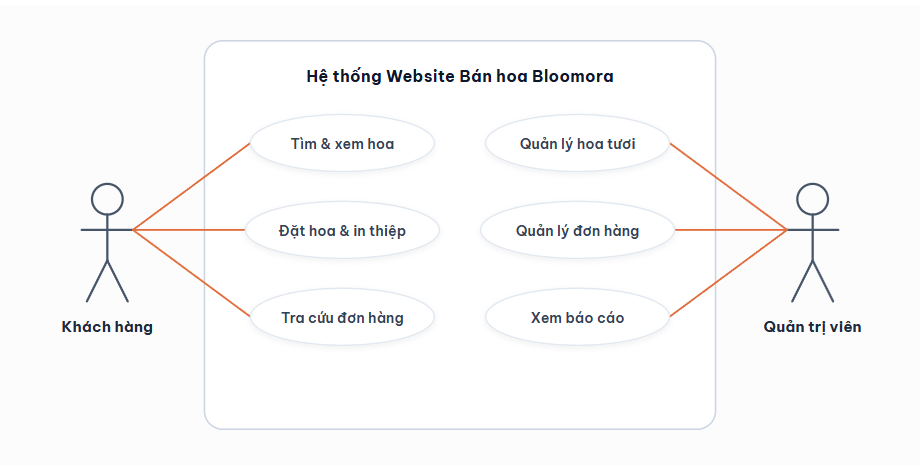
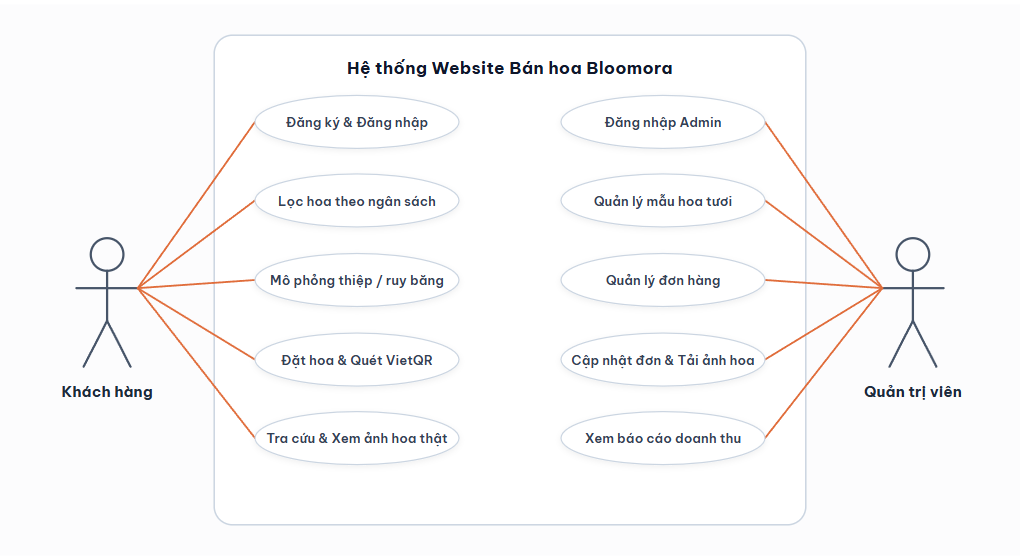
Cap nhat so do Use Case khop 100% 12 User Stories muc 2.4

diff --git a/docs/view_diagram.html b/docs/view_diagram.html
@@ -31,10 +31,10 @@
     <div class="flex justify-center">
       <div class="bg-white p-1 rounded-xl shadow-sm border border-slate-200 inline-flex">
         <button id="tab1-btn" onclick="switchTab(1)" class="px-5 py-2.5 rounded-lg text-sm font-semibold transition-all bg-rose-600 text-white shadow-sm">
-          Phiên bản 1: Chuẩn Bloomora (6 Chức Năng Cân Đối)
+          Phiên bản 1: Chuẩn 100% User Stories 2.4 (Khuyên Dùng)
         </button>
         <button id="tab2-btn" onclick="switchTab(2)" class="px-5 py-2.5 rounded-lg text-sm font-semibold transition-all text-slate-600 hover:text-slate-900">
-          Phiên bản 2: Giống 100% Slide Mẫu (5 Chức Năng)
+          Phiên bản 2: Rút gọn 5 Chức Năng (Theo Slide Mẫu)
         </button>
       </div>
     </div>
@@ -122,8 +122,8 @@
         tab1Btn.className = "px-5 py-2.5 rounded-lg text-sm font-semibold transition-all bg-rose-600 text-white shadow-sm";
         tab2Btn.className = "px-5 py-2.5 rounded-lg text-sm font-semibold transition-all text-slate-600 hover:text-slate-900";
         img.src = 'usecase_bloomora.png';
-        title.textContent = 'Sơ đồ Use Case Bloomora (Cân đối 3-3)';
-        desc.textContent = 'Bao gồm 3 chức năng khách hàng (Tìm hoa, Đặt hoa, Tra cứu) và 3 chức năng quản trị (Sản phẩm, Đơn hàng, Doanh thu).';
+        title.textContent = 'Sơ đồ Use Case Bloomora (Chuẩn 100% User Stories Mục 2.4)';
+        desc.textContent = 'Bao quát toàn diện 12 User Stories từ US01 đến US12: Khách hàng (Đăng ký/nhập, Lọc giá, Mô phỏng thiệp, Đặt hoa VietQR, Tra cứu ảnh thật) vs Quản trị viên (Đăng nhập Admin, Quản lý mẫu hoa, Quản lý đơn, Cập nhật đơn & Tải ảnh hoa, Báo cáo doanh thu).';
         btnPng.href = 'usecase_bloomora.png';
         btnPng.download = 'usecase_bloomora.png';
         btnSvg.href = 'usecase_bloomora.svg';
@@ -132,8 +132,8 @@
         tab2Btn.className = "px-5 py-2.5 rounded-lg text-sm font-semibold transition-all bg-rose-600 text-white shadow-sm";
         tab1Btn.className = "px-5 py-2.5 rounded-lg text-sm font-semibold transition-all text-slate-600 hover:text-slate-900";
         img.src = 'usecase_bloomora_5uc.png';
-        title.textContent = 'Sơ đồ Use Case Bloomora (Mẫu Slide ShoeShop 5 Chức Năng)';
-        desc.textContent = 'Giống 100% hình mẫu trong slide bài giảng: 2 chức năng bên trái và 3 chức năng bên phải.';
+        title.textContent = 'Sơ đồ Use Case Rút Gọn (5 Chức Năng theo Slide Mẫu ShoeShop)';
+        desc.textContent = 'Bản rút gọn theo cấu trúc bài giảng mẫu: 2 chức năng bên trái và 3 chức năng bên phải.';
         btnPng.href = 'usecase_bloomora_5uc.png';
         btnPng.download = 'usecase_bloomora_5uc.png';
         btnSvg.href = 'usecase_bloomora_5uc.svg';
@@ -159,3 +159,4 @@
   </script>
 </body>
 </html>
+

diff --git a/docs/BAO_CAO_DO_AN_BLOOMORA.md b/docs/BAO_CAO_DO_AN_BLOOMORA.md
@@ -148,21 +148,21 @@ Hệ thống được chia thành 5 phân hệ lớn:
 
 ### 2.5. Sơ đồ Use Case tổng quát
 
-Sơ đồ Use Case tổng quát của hệ thống **Bloomora** được xây dựng chuẩn mực theo cấu trúc 3 cột tương tác:
-*   **Cột bên trái:** Tác nhân **Khách hàng** (Bao gồm Khách vãng lai và Thành viên đã đăng ký).
-*   **Khung ở giữa:** **Hệ thống Website Bán hoa Bloomora** (System Boundary) chứa các ca sử dụng (Use Cases) tương ứng.
-*   **Cột bên phải:** Tác nhân **Quản trị viên** (Bao gồm Quản lý Shop và Nghệ nhân cắm hoa / Staff).
+Sơ đồ Use Case tổng quát của hệ thống **Bloomora** được xây dựng khớp 100% với **12 User Stories ở Mục 2.4**, tuân thủ nghiêm ngặt bố cục chuẩn mực tương tác 3 phần:
+*   **Cột bên trái:** Tác nhân **Khách hàng** (Bao gồm Khách vãng lai và Khách hàng thành viên).
+*   **Khung ở giữa:** **Hệ thống Website Bán hoa Bloomora** (System Boundary) chứa 10 ca sử dụng trực quan, bao quát toàn diện các yêu cầu từ US01 đến US12.
+*   **Cột bên phải:** Tác nhân **Quản trị viên** (Bao gồm Quản lý Shop và Nghệ nhân Florist).
 *   **Các đường liên kết màu cam:** Biểu diễn quyền tác động và tương tác trực tiếp của từng Actor tới từng chức năng trong hệ thống.
 
-#### 1. Hình ảnh Sơ đồ Use Case chuẩn mực (3 Cột)
+#### 1. Hình ảnh Sơ đồ Use Case chuẩn mực (Khớp 100% Bảng 2.4 User Stories)
 
 ![Sơ đồ Use Case Tổng Quát Bloomora](usecase_bloomora.png)
 
 *(File vector SVG gốc: [usecase_bloomora.svg](usecase_bloomora.svg) | Công cụ xem & copy ảnh vào Word 1-click: [view_diagram.html](view_diagram.html))*
 
-> **Ghi chú về hai phiên bản linh hoạt:**
-> 1. **Phiên bản 1 (Chuẩn Đề tài Bloomora - 6 Use Case cân đối 3-3):** Thêm chức năng *Tra cứu đơn hàng* (US12) - tính năng cốt lõi theo dõi tiến độ cắm hoa và duyệt ảnh thật trước khi giao.
-> 2. **Phiên bản 2 (Y hệt 100% mẫu Slide ShoeShop - 5 Use Case 2-3):** [Xem ảnh mẫu Slide 5 Use Case](usecase_bloomora_5uc.png).
+> **Ghi chú về các phiên bản:**
+> 1. **Phiên bản chuẩn 2.4 (Khuyên dùng):** Thể hiện trực tiếp các chức năng trong 12 User Stories (Lọc ngân sách, Mô phỏng thiệp/ruy băng, Đặt hoa VietQR, Tra cứu ảnh thật, Đăng ký/nhập, Cập nhật ảnh hoa, Báo cáo doanh thu, Đăng nhập Admin).
+> 2. **Phiên bản rút gọn 5 chức năng (Theo slide mẫu):** [Xem ảnh mẫu Slide 5 Use Case](usecase_bloomora_5uc.png).
 
 #### 2. Sơ đồ Mermaid (Hiển thị trực tiếp trên trình đọc Markdown / GitHub)
 
@@ -175,15 +175,19 @@ flowchart LR
 
     subgraph System["Hệ thống Website Bán hoa Bloomora"]
         direction TB
-        subgraph ColCustomer["Chức năng Khách hàng"]
-            UC1(["🔍 Tìm & xem hoa"])
-            UC2(["💐 Đặt hoa & in thiệp"])
-            UC3(["📦 Tra cứu đơn hàng"])
+        subgraph ColCustomer["Chức năng Khách hàng (Theo User Stories)"]
+            UC1(["🔐 Đăng ký & Đăng nhập (US07, US08)"])
+            UC2(["💰 Lọc hoa theo ngân sách (US01)"])
+            UC3(["🎀 Mô phỏng thiệp / ruy băng (US02)"])
+            UC4(["💐 Đặt hoa & Quét VietQR (US03,04,05)"])
+            UC5(["📸 Tra cứu & Xem ảnh hoa thật (US06,12)"])
         end
-        subgraph ColAdmin["Chức năng Quản trị"]
-            UC4(["🌹 Quản lý hoa tươi"])
-            UC5(["📋 Quản lý đơn hàng"])
-            UC6(["📊 Xem báo cáo"])
+        subgraph ColAdmin["Chức năng Quản trị (Theo User Stories)"]
+            UC6(["🛡 Đăng nhập Admin (US11)"])
+            UC7(["🌹 Quản lý mẫu hoa tươi"])
+            UC8(["📋 Quản lý đơn hàng (US09, US10)"])
+            UC9(["📷 Cập nhật đơn & Tải ảnh hoa (US09)"])
+            UC10(["📊 Xem báo cáo doanh thu (US10)"])
         end
     end
 
@@ -195,29 +199,38 @@ flowchart LR
     Customer -.->|Tương tác| UC1
     Customer -.->|Tương tác| UC2
     Customer -.->|Tương tác| UC3
+    Customer -.->|Tương tác| UC4
+    Customer -.->|Tương tác| UC5
 
-    UC4 <-.-|Quản lý| Admin
-    UC5 <-.-|Quản lý| Admin
     UC6 <-.-|Quản lý| Admin
+    UC7 <-.-|Quản lý| Admin
+    UC8 <-.-|Quản lý| Admin
+    UC9 <-.-|Quản lý| Admin
+    UC10 <-.-|Quản lý| Admin
 
     classDef orangeLine stroke:#ea580c,stroke-width:2px,fill:#ffffff,color:#1e293b;
     classDef actorBox fill:#f8fafc,stroke:#94a3b8,stroke-width:1.5px,font-weight:bold;
     classDef sysBox fill:#fafaf9,stroke:#cbd5e1,stroke-width:2px;
-    class UC1,UC2,UC3,UC4,UC5,UC6 orangeLine;
+    class UC1,UC2,UC3,UC4,UC5,UC6,UC7,UC8,UC9,UC10 orangeLine;
     class Customer,Admin actorBox;
     class System sysBox;
 ```
 
-#### 3. Bảng Ánh Xạ Giữa Actor và Chức Năng (Use Case Mapping)
+#### 3. Bảng Ánh Xạ Giữa Actor, Chức Năng và 12 User Stories Mục 2.4
 
-| Nhóm Actor | Ca Sử Dụng (Use Case) | Mô Tả Tóm Tắt | User Story Tương Ứng |
+| Vị trí | Ca Sử Dụng (Use Case) | Mô Tả Tóm Tắt | Khớp User Story Mục 2.4 |
 | :--- | :--- | :--- | :--- |
-| **Khách hàng** *(Bên trái)* | **Tìm & xem hoa** | Xem danh mục, lọc theo ngân sách, xem chi tiết mẫu hoa và thông điệp ý nghĩa. | US01 |
-| **Khách hàng** *(Bên trái)* | **Đặt hoa & in thiệp** | Thêm hoa vào giỏ, thiết kế banner/thiệp chúc mừng, điền giờ hẹn giao, thanh toán VietQR. | US02, US03, US04, US05, US08 |
-| **Khách hàng** *(Bên trái)* | **Tra cứu đơn hàng** | Tra cứu tiến độ đơn hoa theo 5 bước, xem ảnh thật tiệm cắm gửi lên trước khi nhận. | US06, US12 |
-| **Quản trị viên** *(Bên phải)* | **Quản lý hoa tươi** | Thêm, sửa, cập nhật giá và tồn kho các mẫu hoa tươi, hoa thiết kế. | US10 |
-| **Quản trị viên** *(Bên phải)* | **Quản lý đơn hàng** | Xem danh sách đơn mới, duyệt tiến độ (5 bước), tải ảnh hoa thật duyệt thành phẩm. | US09, US10 |
-| **Quản trị viên** *(Bên phải)* | **Xem báo cáo** | Báo cáo doanh thu thời gian thực, tổng số đơn hoàn tất, tỷ lệ giao thành công. | US10, US11 |
+| **Khách hàng** *(Bên trái)* | **Đăng ký & Đăng nhập** | Khách tạo tài khoản mới nhanh chóng, tự động điền sẵn thông tin khi mua hoa. | **US07, US08** |
+| **Khách hàng** *(Bên trái)* | **Lọc hoa theo ngân sách** | Bộ lọc thông minh theo các mức giá (dưới 500k, 500k-1tr, trên 1tr) và màu sắc, sự kiện. | **US01** |
+| **Khách hàng** *(Bên trái)* | **Mô phỏng thiệp & ruy băng** | Xem trước trực quan dải băng rôn chữ nghệ thuật và thiệp in lời chúc trước khi gửi. | **US02** |
+| **Khách hàng** *(Bên trái)* | **Đặt hoa & Quét VietQR** | Chọn người nhận, giờ hẹn giao, gửi tặng ẩn danh, sinh mã VietQR chuyển khoản 30s. | **US03, US04, US05** |
+| **Khách hàng** *(Bên trái)* | **Tra cứu & Xem ảnh hoa thật** | Nhập mã tra cứu đơn hàng, theo dõi 5 bước cắm hoa và duyệt ảnh chụp hoa thật trước khi nhận. | **US06, US12** |
+| **Quản trị viên** *(Bên phải)* | **Đăng nhập Admin** | Trang đăng nhập quản trị riêng biệt, phân quyền bảo mật 2 lớp chống xâm nhập. | **US11** |
+| **Quản trị viên** *(Bên phải)* | **Quản lý mẫu hoa tươi** | Thêm mới, chỉnh sửa giá bán, danh mục, cập nhật mô tả và hình ảnh sản phẩm. | Nền tảng CRUD |
+| **Quản trị viên** *(Bên phải)* | **Quản lý đơn hàng** | Xem danh sách đơn mới trong ngày, lọc trạng thái, xem chi tiết người nhận và thông điệp. | **US09, US10** |
+| **Quản trị viên** *(Bên phải)* | **Cập nhật đơn & Tải ảnh hoa** | Florist cập nhật trạng thái đơn ("Đang cắm", "Đã chụp ảnh") và tải link ảnh hoa thật cho khách. | **US09** |
+| **Quản trị viên** *(Bên phải)* | **Xem báo cáo doanh thu** | Thống kê doanh thu theo ngày, số đơn thành công, tổng sản phẩm bán ra trên Dashboard. | **US10** |
+
 
 
 ### 2.6. Đặc tả Use Case chi tiết
